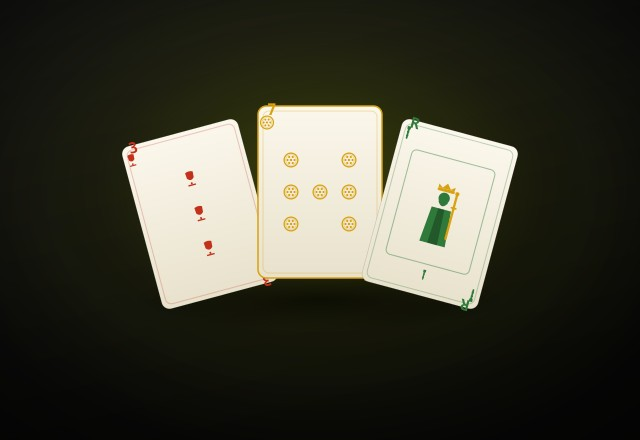
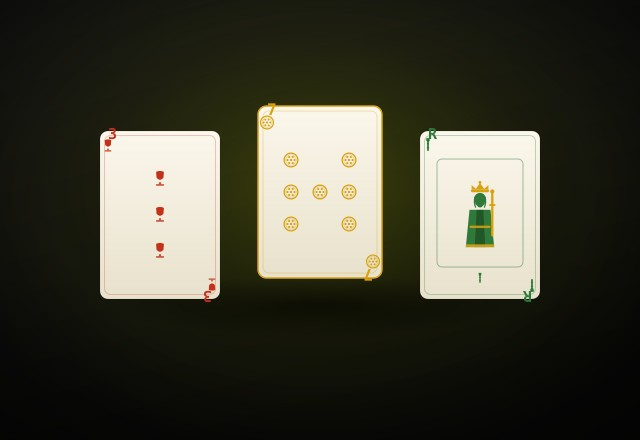
feat(scopa): perpendicular symmetric tile + richer court figures
- Rework the lobby game-card tile from a 3-card fan to three upright,
  symmetric Sicilian cards (perpendicular, not angled): Settebello (7
  Denari) centre in a raised gold frame, Coppe 3 left and Bastoni Re
  right, evenly spaced and mirror-symmetric
- Refine court figures toward the classic regional deck: Re with
  ermine-trimmed hem, belt, hair and sword; Donna with diadem and a
  flower in hand; Cavallo with full horse, mane, plumed hat and reins
- Add a subtle paper-grain texture to the card faces

Changed region(s): [[0.5625, 0.2659, 0.8438, 0.7091], [0.1562, 0.2659, 0.4375, 0.7091]]

diff --git a/src/components/casino/scopa-card.tsx b/src/components/casino/scopa-card.tsx
@@ -118,21 +118,29 @@ const GOLD = '#d7a10f';
 function ReFigure({ color }: { color: string }) {
   return (
     <g>
-      {/* crown */}
-      <path d="M -8 -33 L -8 -36.5 L -4 -33.5 L 0 -38.5 L 4 -33.5 L 8 -36.5 L 8 -33 Z" fill={GOLD} />
-      <rect x="-8.4" y="-33" width="16.8" height="2.8" rx="1.3" fill={GOLD} />
-      {/* head + beard */}
-      <circle cx="0" cy="-24" r="5.4" fill={color} />
-      <path d="M -4.8 -20.5 Q 0 -12 4.8 -20.5 Z" fill={color} />
+      {/* crown with central jewel */}
+      <path d="M -8 -33 L -8 -37 L -4 -33.5 L 0 -39 L 4 -33.5 L 8 -37 L 8 -33 Z" fill={GOLD} />
+      <rect x="-8.6" y="-33" width="17.2" height="2.8" rx="1.3" fill={GOLD} />
+      <circle cx="0" cy="-39.6" r="1.4" fill={GOLD} />
+      {/* head + hair */}
+      <circle cx="0" cy="-24" r="5.6" fill={color} />
+      <path d="M -5.4 -26 Q -6.8 -20 -4.6 -15.5 L -3.6 -15.5 Q -4.9 -19 -3.9 -24 Z" fill={color} />
+      <path d="M 5.4 -26 Q 6.8 -20 4.6 -15.5 L 3.6 -15.5 Q 4.9 -19 3.9 -24 Z" fill={color} />
+      {/* beard */}
+      <path d="M -5 -20.5 Q 0 -11 5 -20.5 Z" fill={color} />
       {/* robe */}
-      <path d="M -9.5 -13.5 L 9.5 -13.5 L 12.5 21 L -12.5 21 Z" fill={color} />
-      <path d="M -3 -13.5 L 3 -13.5 L 4.8 21 L -4.8 21 Z" fill="#000000" opacity="0.28" />
-      {/* mantle */}
-      <path d="M -9.5 -13.5 L -2 -13.5 L -4.5 21 L -12.5 21 Z" fill="#000000" opacity="0.18" />
-      {/* sword */}
-      <rect x="10" y="-30" width="2.2" height="44" rx="1.1" fill={GOLD} />
-      <rect x="8.1" y="-18" width="6" height="1.7" rx="0.85" fill={GOLD} />
-      <circle cx="11.1" cy="-31" r="2" fill={GOLD} />
+      <path d="M -10 -13.5 L 10 -13.5 L 13.5 22 L -13.5 22 Z" fill={color} />
+      <path d="M -3.2 -13.5 L 3.2 -13.5 L 5 22 L -5 22 Z" fill="#000000" opacity="0.3" />
+      {/* ermine-trimmed hem + belt */}
+      <path d="M -13.5 22 L 13.5 22 L 13.5 19.4 L -13.5 19.4 Z" fill={GOLD} opacity="0.92" />
+      <rect x="-10" y="1.5" width="20" height="2.4" rx="1.1" fill={GOLD} opacity="0.85" />
+      {/* sword in hand */}
+      <rect x="10.6" y="-30" width="2.2" height="42" rx="1.1" fill={GOLD} />
+      <rect x="8.6" y="-19" width="6.2" height="1.8" rx="0.9" fill={GOLD} />
+      <circle cx="11.7" cy="-31" r="2" fill={GOLD} />
+      {/* feet */}
+      <path d="M -13.5 22 L -9 22 L -9 25.2 L -14 25.2 Z" fill="#000000" opacity="0.25" />
+      <path d="M 9 22 L 13.5 22 L 14 25.2 L 9 25.2 Z" fill="#000000" opacity="0.25" />
     </g>
   );
 }
@@ -141,16 +149,25 @@ function DonnaFigure({ color }: { color: string }) {
   return (
     <g>
       {/* hair */}
-      <path d="M -5.2 -25 C -8 -20 -8.6 -12 -6.4 -5.5 L -3.6 -5.5 C -4.6 -10 -4.6 -17 -3.8 -23 Z" fill={color} />
-      <path d="M 5.2 -25 C 8 -20 8.6 -12 6.4 -5.5 L 3.6 -5.5 C 4.6 -10 4.6 -17 3.8 -23 Z" fill={color} />
+      <path d="M -5.4 -25 C -8.4 -20 -9 -12 -6.6 -5.5 L -3.6 -5.5 C -4.8 -10 -4.8 -17 -4 -23 Z" fill={color} />
+      <path d="M 5.4 -25 C 8.4 -20 9 -12 6.6 -5.5 L 3.6 -5.5 C 4.8 -10 4.8 -17 4 -23 Z" fill={color} />
+      {/* diadem */}
+      <rect x="-4.6" y="-27.6" width="9.2" height="2.2" rx="1.1" fill={GOLD} />
       {/* head */}
       <circle cx="0" cy="-23" r="5.2" fill={color} />
       {/* necklace */}
-      <circle cx="0" cy="-15.6" r="1" fill="none" stroke={GOLD} strokeWidth="0.9" />
+      <circle cx="0" cy="-15.4" r="1" fill="none" stroke={GOLD} strokeWidth="0.9" />
       {/* dress */}
-      <path d="M -8.5 -14 L 8.5 -14 L 14 21 L -14 21 Z" fill={color} />
-      <path d="M -3 -14 L 3 -14 L 5 21 L -5 21 Z" fill="#000000" opacity="0.26" />
-      <path d="M -8.5 -14 L -3 -14 L -5 21 L -14 21 Z" fill="#000000" opacity="0.16" />
+      <path d="M -9 -14 L 9 -14 L 14.5 21 L -14.5 21 Z" fill={color} />
+      <path d="M -3.2 -14 L 3.2 -14 L 5.5 21 L -5.5 21 Z" fill="#000000" opacity="0.26" />
+      <path d="M -14.5 21 L 14.5 21 L 14.5 18.6 L -14.5 18.6 Z" fill={GOLD} opacity="0.6" />
+      {/* arm holding a flower */}
+      <path d="M -9 -14 L -13 -7.5 L -10 -3.5 L -7.5 -5.5 L -6.5 -13 Z" fill={color} />
+      <path d="M -13.4 -8.2 L -16.2 -9.2 L -15 -5.8 Z" fill={color} />
+      <circle cx="-16.4" cy="-10.6" r="1.6" fill={GOLD} />
+      <circle cx="-16.4" cy="-10.6" r="0.65" fill={color} />
+      <path d="M -16.4 -9 L -16.4 -6.2" stroke="#2f7a3a" strokeWidth="0.9" fill="none" />
+      <path d="M -16.4 -7.6 L -14.2 -7" stroke="#2f7a3a" strokeWidth="0.8" fill="none" />
     </g>
   );
 }
@@ -159,21 +176,30 @@ function CavalloFigure({ color }: { color: string }) {
   return (
     <g fill={color}>
       {/* horse legs */}
-      <rect x="-10.4" y="15" width="2" height="7.4" rx="0.9" />
-      <rect x="-6.2" y="15" width="2" height="7.4" rx="0.9" />
-      <rect x="4.4" y="15" width="2" height="7.4" rx="0.9" />
-      <rect x="8.4" y="15" width="2" height="7.4" rx="0.9" />
+      <rect x="-11" y="15" width="2" height="8" rx="0.9" />
+      <rect x="-6.6" y="15" width="2" height="8" rx="0.9" />
+      <rect x="4.6" y="15" width="2" height="8" rx="0.9" />
+      <rect x="9" y="15" width="2" height="8" rx="0.9" />
       {/* body */}
-      <path d="M -13 15 Q -14 7.5 -4 7.5 L 9 7.5 Q 14 7.5 12.6 15 Z" />
+      <path d="M -13.5 15 Q -15 6 -4 6 L 9.5 6 Q 15 6 13 15 Z" />
       {/* neck + head */}
-      <path d="M 9.5 11 L 13.5 4.5 L 15.4 5.6 L 14.6 0.4 L 12.4 0.4 L 11.4 3.6 L 8.2 6.4 Z" />
-      <path d="M 12.6 0.4 L 13.6 -2.8 L 14.8 0.4 Z" />
+      <path d="M 10 11 L 13.5 2.5 L 15.6 3.6 L 14.8 -1.6 L 12.2 -1.6 L 11 2.6 L 8 6.5 Z" />
+      <path d="M 13 -1.6 L 14.2 -5.6 L 15.6 -1.6 Z" />
+      {/* mane */}
+      <path d="M 10 9 L 13.4 5 L 12.8 1.5 L 10.2 4.5 Z" opacity="0.5" />
       {/* tail */}
-      <path d="M -13 12.5 Q -17 12.5 -15.8 6.5 Q -14.8 9.5 -11.6 9.5 Z" />
-      {/* rider torso + head + arm */}
-      <path d="M -3.4 7.5 L 3.2 7.5 L 2.2 -0.5 L -2.2 -0.5 Z" />
-      <circle cx="0" cy="-3.6" r="2.7" />
-      <path d="M -2.8 1 L -5.4 4.2 L -2.8 5.2 Z" />
+      <path d="M -13.5 12 Q -18 12 -16.5 5.5 Q -15.5 9 -11.5 9.5 Z" />
+      {/* eye */}
+      <circle cx="13" cy="-0.6" r="0.55" fill="#f7f2e4" />
+      {/* rider torso + head */}
+      <path d="M -3.4 6 L 3.2 6 L 2.4 -1.5 L -2.4 -1.5 Z" />
+      <circle cx="0" cy="-4.6" r="2.8" />
+      {/* plumed hat */}
+      <path d="M -2.2 -6.8 L 2.2 -6.8 L 1.4 -8.8 L -1.4 -8.8 Z" />
+      <path d="M -1 -7.6 L -3.6 -10.2 L -0.6 -9 Z" fill={GOLD} />
+      {/* arm + reins */}
+      <path d="M -2.8 0 L -6 3 L -3 4.4 Z" />
+      <path d="M -6 3.6 L -8.6 5.4 L -7.6 6.6 L -5 4.8 Z" opacity="0.7" />
     </g>
   );
 }
@@ -222,6 +248,7 @@ function CornerIndices({ suit, value }: { suit: number; value: number }) {
 export function SicilianCard({ card, style }: { card: Card; style?: CSSProperties }) {
   const c = SCOPA_SUIT_COLOR[card.suit];
   const gradId = useId();
+  const grainId = useId();
   return (
     <svg
       viewBox="0 0 100 140"
@@ -237,8 +264,14 @@ export function SicilianCard({ card, style }: { card: Card; style?: CSSPropertie
           <stop offset="0" stopColor="#fbf7ec" />
           <stop offset="1" stopColor="#e8e1cc" />
         </linearGradient>
+        <pattern id={grainId} width="4" height="4" patternUnits="userSpaceOnUse">
+          <rect width="4" height="4" fill="transparent" />
+          <circle cx="0.6" cy="0.6" r="0.35" fill="#8a6d0b" opacity="0.05" />
+          <circle cx="2.8" cy="2.6" r="0.3" fill="#000000" opacity="0.035" />
+        </pattern>
       </defs>
       <rect x="0.5" y="0.5" width="99" height="139" rx="8" fill={`url(#${gradId})`} stroke="#00000022" />
+      <rect x="0.5" y="0.5" width="99" height="139" rx="8" fill={`url(#${grainId})`} />
       <rect x="3.5" y="3.5" width="93" height="133" rx="6" fill="none" stroke={c} strokeOpacity="0.22" />
       <CornerIndices suit={card.suit} value={card.value} />
       {card.value >= 8 ? (
